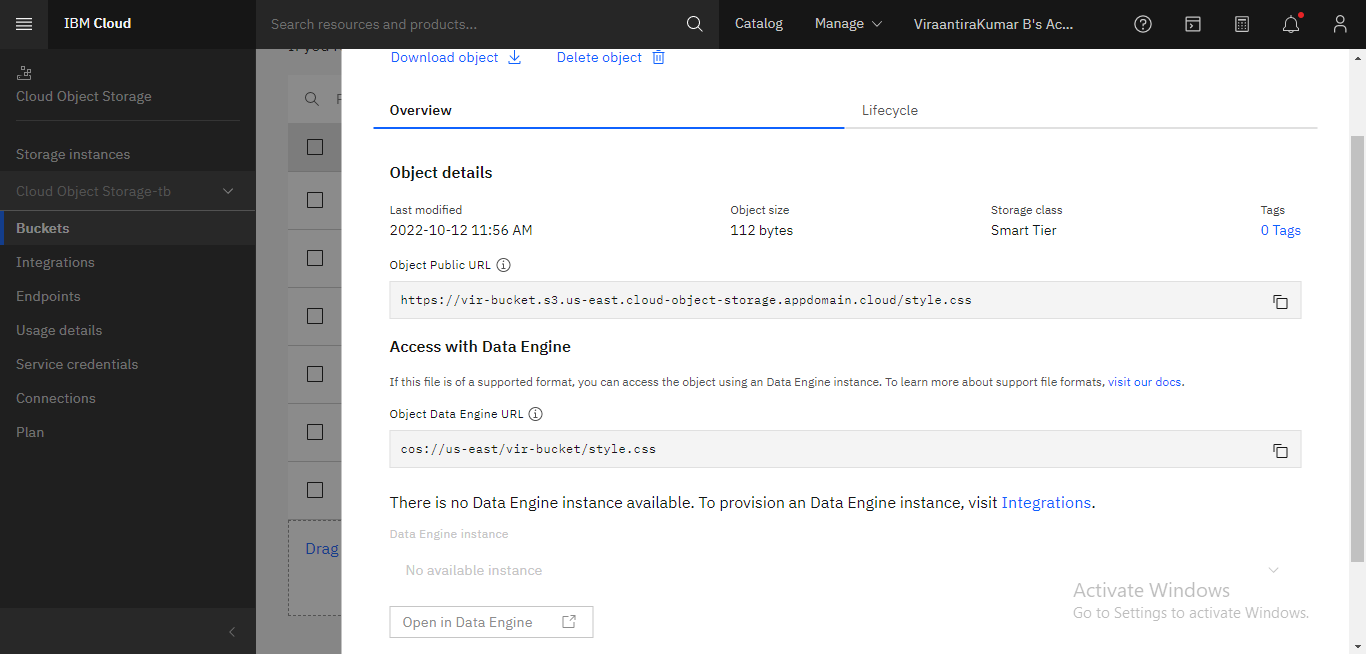
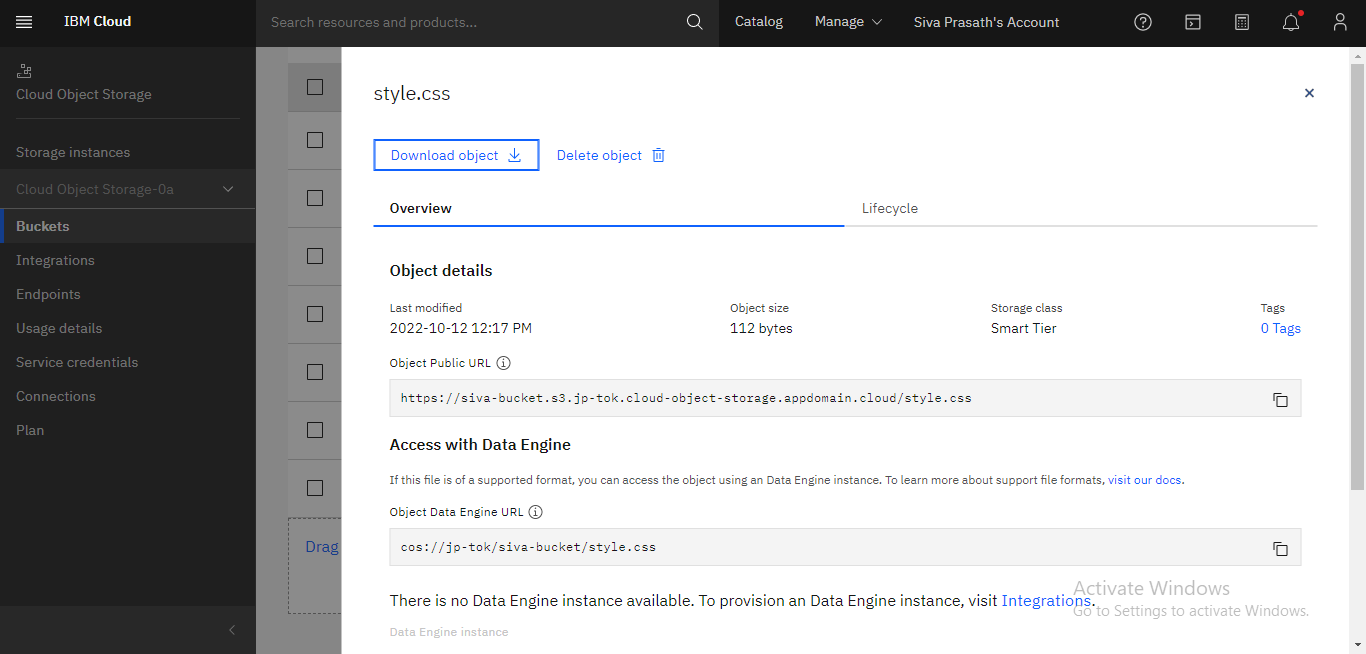
siva

diff --git a/Assignments/Team Member 3 (19i346)-Siva Prasath/Assignment 3/Q2/templates/index.html b/Assignments/Team Member 3 (19i346)-Siva Prasath/Assignment 3/Q2/templates/index.html
@@ -8,13 +8,13 @@
 <html>
     <head>
         <h1>IBM ASSIGNMENT 3</h1>
-        <link rel="stylesheet" href="https://vir-bucket.s3.us-east.cloud-object-storage.appdomain.cloud/style.css">
+        <link rel="stylesheet" href="https://siva-bucket.s3.jp-tok.cloud-object-storage.appdomain.cloud/style.css">
     </head>
       <body>
       {% for row in files %}
         <div>
             <h3>Image Name : {{row}} </h3>
-            <img src="https://vir-bucket.s3.us-east.cloud-object-storage.appdomain.cloud/{{row}}" width="500px"></td>
+            <img src="https://siva-bucket.s3.jp-tok.cloud-object-storage.appdomain.cloud/{{row}}" width="500px"></td>
          </div>
          
       {% endfor %}

diff --git a/Assignments/Team Member 3 (19i346)-Siva Prasath/Assignment 3/Q4 AND Q5/HOSPITAL.HTML b/Assignments/Team Member 3 (19i346)-Siva Prasath/Assignment 3/Q4 AND Q5/HOSPITAL.HTML
@@ -9,7 +9,7 @@
             window.watsonAssistantChatOptions = {
                 integrationID: "ae74cc76-389e-4600-b972-36da890ad97f", // The ID of this integration.
                 region: "au-syd", // The region your integration is hosted in.
-                serviceInstanceID: "c016e57b-a48c-4695-b58a-cbb67b525bd3", // The ID of your service instance.
+                serviceInstanceID: "4b8e91b8-49f0-4398-8864-b9cef2020c5b", // The ID of your service instance.
                 onLoad: function (instance) {
                     instance.render();
                 },

diff --git a/Assignments/Team Member 3 (19i346)-Siva Prasath/Assignment 3/Q2/app.py b/Assignments/Team Member 3 (19i346)-Siva Prasath/Assignment 3/Q2/app.py
@@ -4,8 +4,8 @@ from ibm_botocore.client import Config, ClientError
 
 # Constants for IBM COS values
 COS_ENDPOINT = "https://s3.us-east.cloud-object-storage.appdomain.cloud" 
-COS_API_KEY_ID = "nmhjb4EswnJQCE2QKsGuv9YMakM2fhGR5L_FB5LUhwl1"
-COS_INSTANCE_CRN = "crn:v1:bluemix:public:cloud-object-storage:global:a/3d2afddbd3b246eebdfa5555458bb535:b63a213a-fd4f-4fc3-91da-1df41b661e67:bucket:vir-bucket"
+COS_API_KEY_ID = "KLfwQZUmPcWkKbgwbTFyE-BXafPRvpNRQHVSniKsl6yG"
+COS_INSTANCE_CRN = "crn:v1:bluemix:public:cloud-object-storage:global:a/6d03a482abb143e49d274fd6e3cb4e1a:b4af6af5-70b0-42c1-9c93-def45713d580:bucket:siva-bucket"
 
 
 # Create resource
@@ -90,7 +90,7 @@ def multi_part_upload(bucket_name, item_name, file_path):
 
 @app.route('/')
 def index():
-    files = get_bucket_contents('vir-bucket')
+    files = get_bucket_contents('siva-bucket')
     
     return render_template('index.html', files = files)
 
